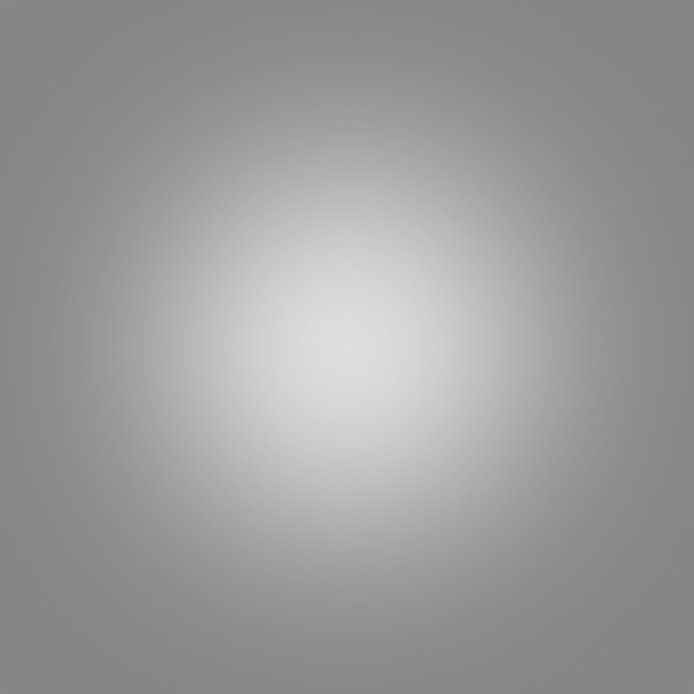
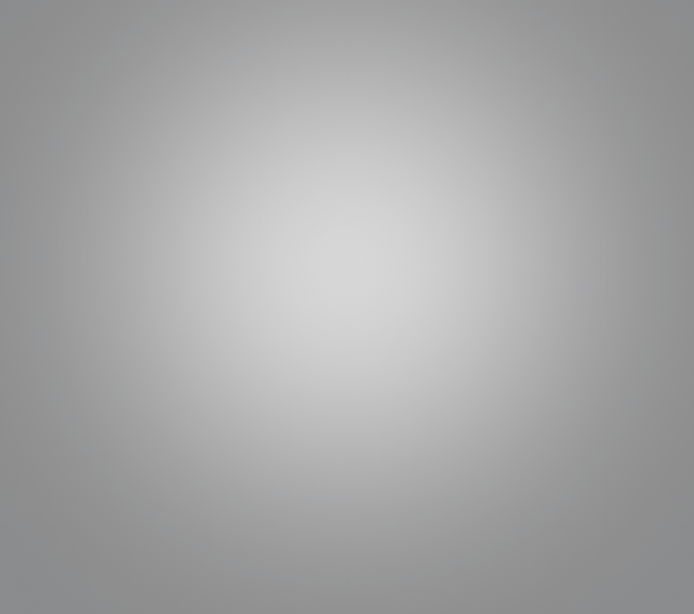
Trying to fix background image

Changed region(s): [[0.2421, 0.0, 0.7565, 0.2785]]

diff --git a/src/app/layout.tsx b/src/app/layout.tsx
@@ -1,15 +1,9 @@
-import type { Metadata } from "next";
 import { ThemeProvider } from "@/components/theme-provider";
 import { JetBrains_Mono } from "next/font/google";
 import "./globals.css";
 import DarkMode from "@/components/dark-mode";
 
 const jetbrains_mono = JetBrains_Mono({ subsets: ["latin"] });
-
-export const metadata: Metadata = {
-  title: "Create Next App",
-  description: "Generated by create next app",
-};
 
 export default function RootLayout({
   children,
@@ -18,7 +12,7 @@ export default function RootLayout({
 }>) {
   return (
     <html lang="en">
-      <body className={`${jetbrains_mono.className} `}>
+      <body className={`${jetbrains_mono.className} bg-dark`}>
         <ThemeProvider
           attribute="Class"
           defaultTheme="system"

diff --git a/src/app/page.tsx b/src/app/page.tsx
@@ -1,10 +1,30 @@
+import { Metadata } from "next";
+
 import NavBar from "@/components/navbar";
+import BoxBG from "@/components/boxBG";
+
+export const metadata: Metadata = {
+  title: "Devsphere",
+  description: "Generated by create next app",
+};
 
 export default function Home() {
   return (
     <>
       <NavBar />
-      <h1>Hello</h1>
+      <div
+        style={{
+          backgroundImage: `url(${BoxBG})`,
+          backgroundPosition: "center",
+          backgroundSize: "cover",
+          backgroundRepeat: "no-repeat",
+        }}
+      >
+        <h1 className="w-full text-6xl">
+          Open-Source and Blockchain fascinates us. Imagine a community that can
+          assist you with that.
+        </h1>
+      </div>
     </>
   );
 }

diff --git a/src/components/boxBG.tsx b/src/components/boxBG.tsx
@@ -1,0 +1,20 @@
+import Image from "next/image";
+import boxBG from "@/images/boxBG.png";
+
+export default function BoxBG({ children }: { children: React.ReactNode }) {
+  return (
+    <div className="relative">
+      <div className="flex w-full justify-center">
+        <Image
+          className="object-cover"
+          src={boxBG}
+          alt="background image"
+          placeholder="blur"
+        />
+      </div>
+      <div className="absolute left-1/2 top-1/2 -translate-x-1/2 -translate-y-1/2 transform">
+        {children}
+      </div>
+    </div>
+  );
+}
